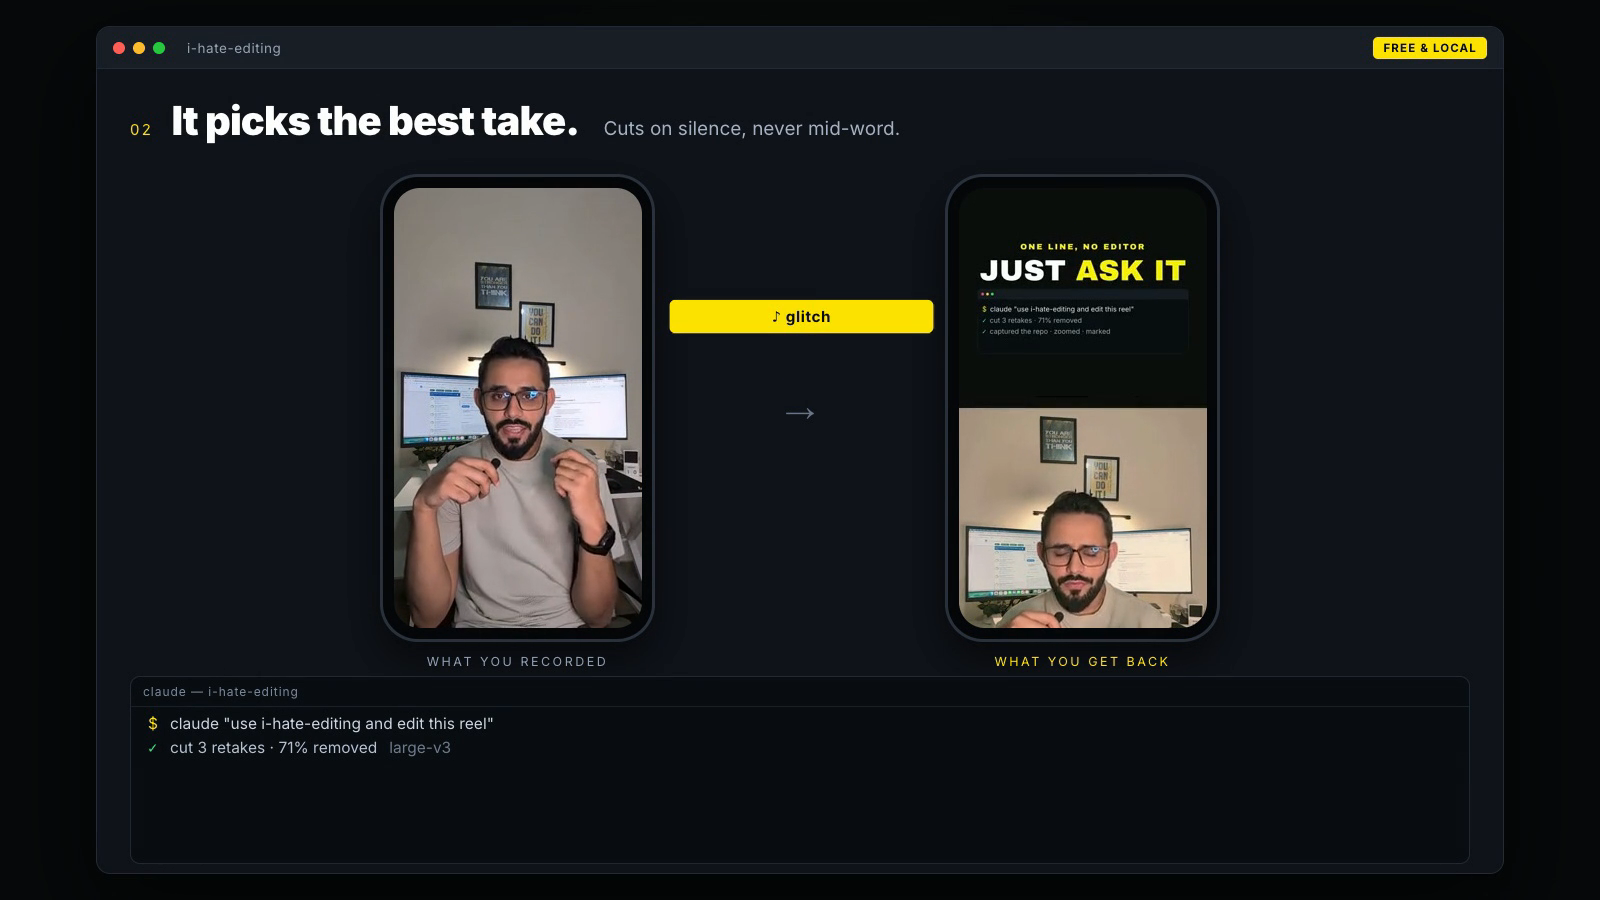
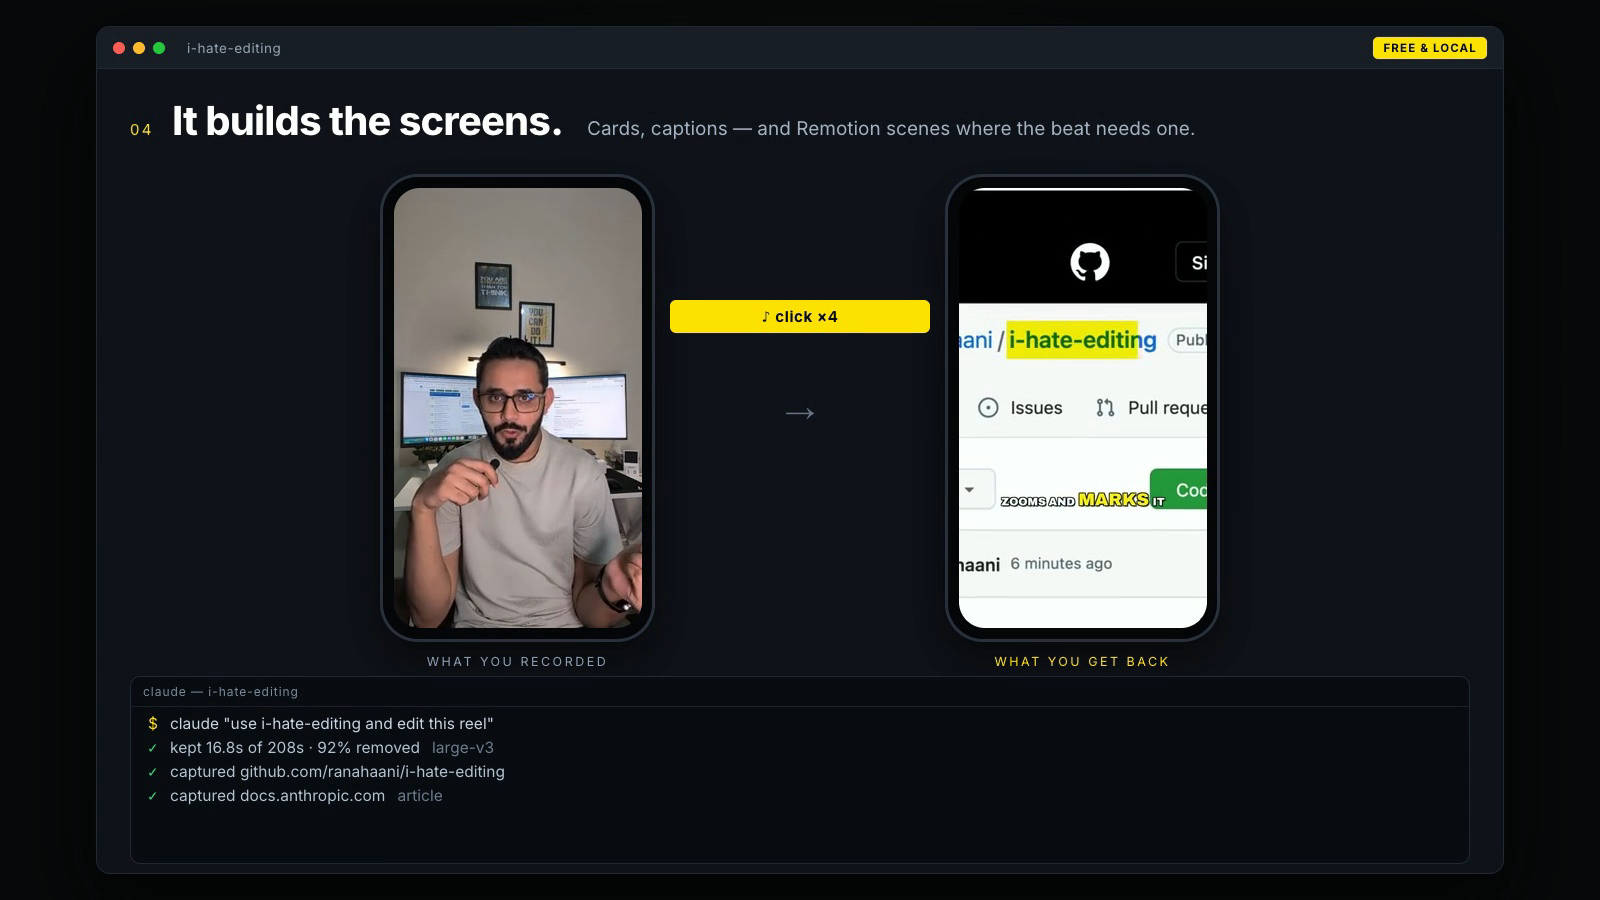
docs: rebuild the demo on a reel that uses a Remotion scene
The banner still showed the pipeline as cards only. The right-hand phone is
now a fresh render of the same 2026-09-06 footage with the terminal beat
rebuilt as a Remotion scene: the command types itself and three checks land
one at a time, composited full-frame under the captions.

Story beat 04 and the terminal log were rewritten to match what that render
actually produced — 1 scene, 2 cards, 9 captions, 13 sounds, 92% of the source
removed — rather than the numbers inherited from the previous build.

Same generator and the same GIF recipe as before (fps 9, 860px, bayer 5); the
palette drops to 64 colours, which this flat composition holds, so the GIF is
2.20 MB against 2.62 MB before.

Also corrects rules/scenes.md: a full-frame scene does not suppress captions
the way a full card does, so the bottom third has to stay clear. Found by
looking at the render.

diff --git a/rules/scenes.md b/rules/scenes.md
@@ -42,8 +42,9 @@ covers, what is on screen, and what moves in what order:
 
 `full: true` gives the scene the whole frame and steps the face away; without
 it the scene takes the top half and the face repositions below it, exactly
-like a half-card. Captions still draw on top, and are suppressed under a full
-scene the same way they are under a full card.
+like a half-card. Captions keep drawing on top either way — a full scene does
+*not* suppress them the way a full card does — so leave the bottom third of
+the frame clear or the caption lands on your artwork.
 
 Do not write components before that plan is agreed. A component written
 against an unapproved beat is thrown away, and it is the expensive artefact in
@@ -93,6 +94,7 @@ added at delivery.
 - [ ] The scene renders at the cut's own dimensions and frame rate.
 - [ ] Something changes at least every three seconds inside it.
 - [ ] Every on-screen word is readable on a phone at arm's length.
+- [ ] The bottom third is clear, where the caption lands.
 - [ ] Only assets the user supplied, or brand marks `icons.py` fetched.
 - [ ] The rendered MP4 has no audio stream.
 - [ ] You looked at first, middle and last frames of the render.
